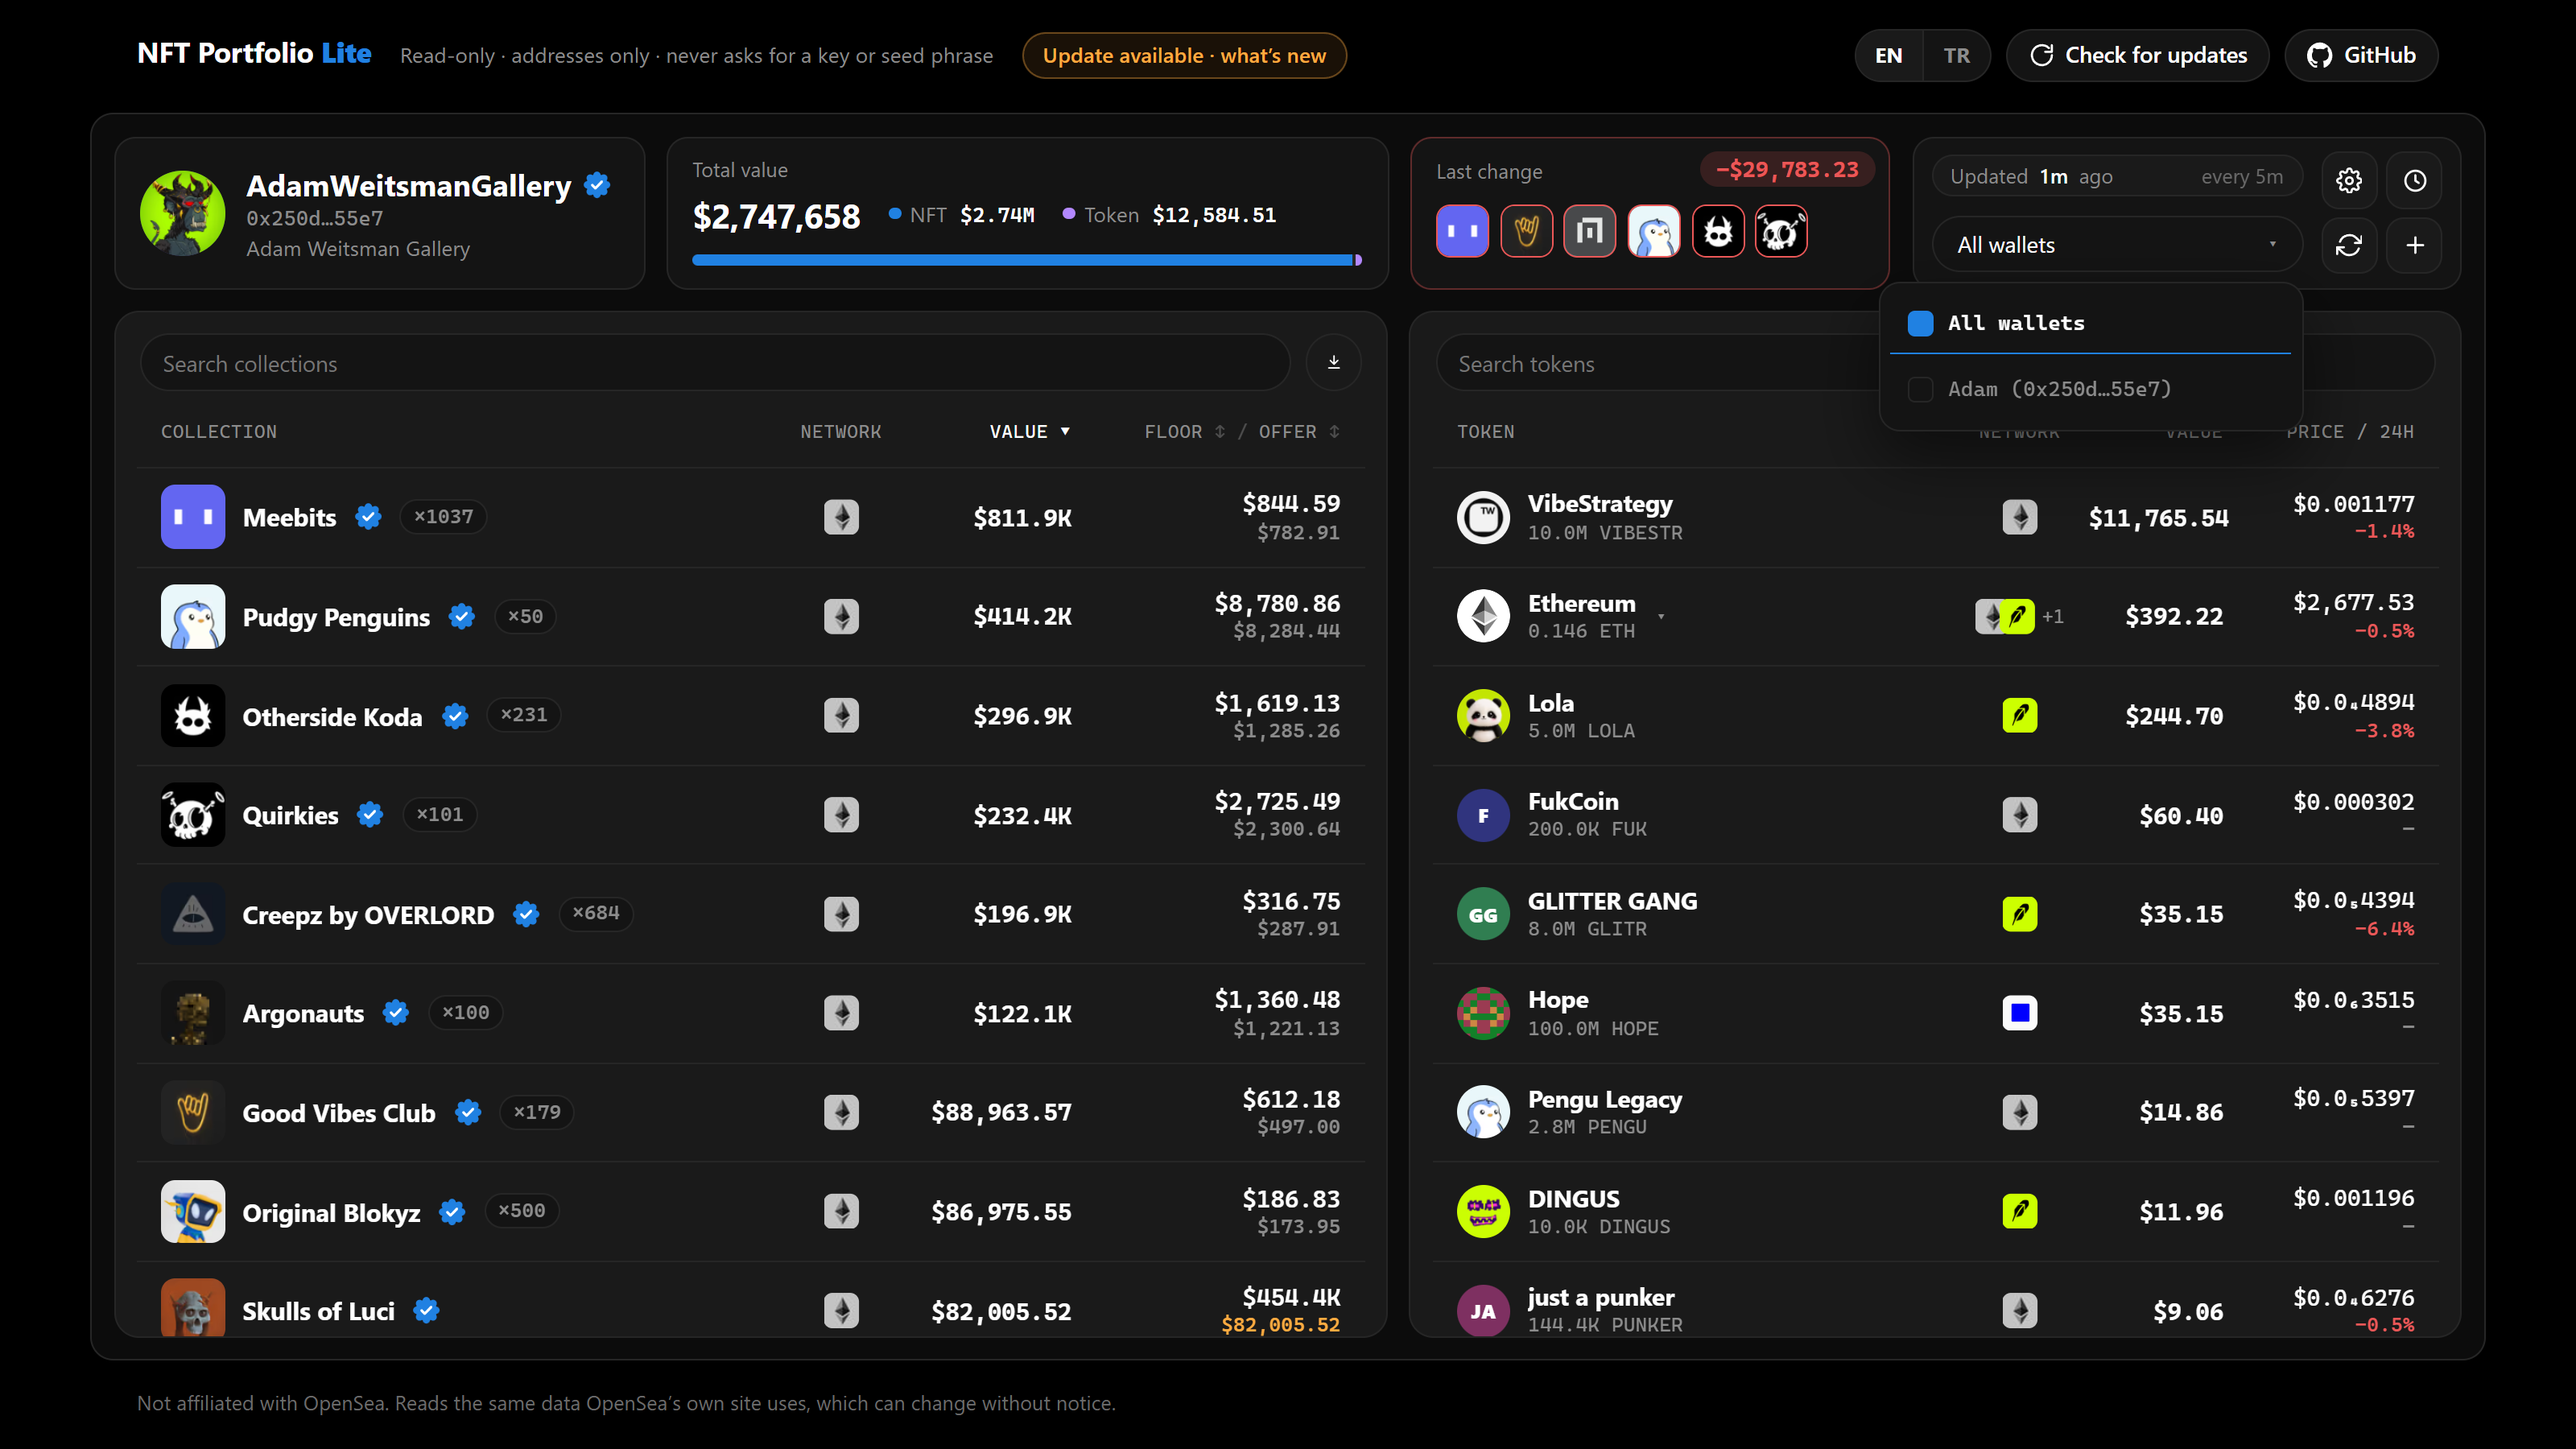
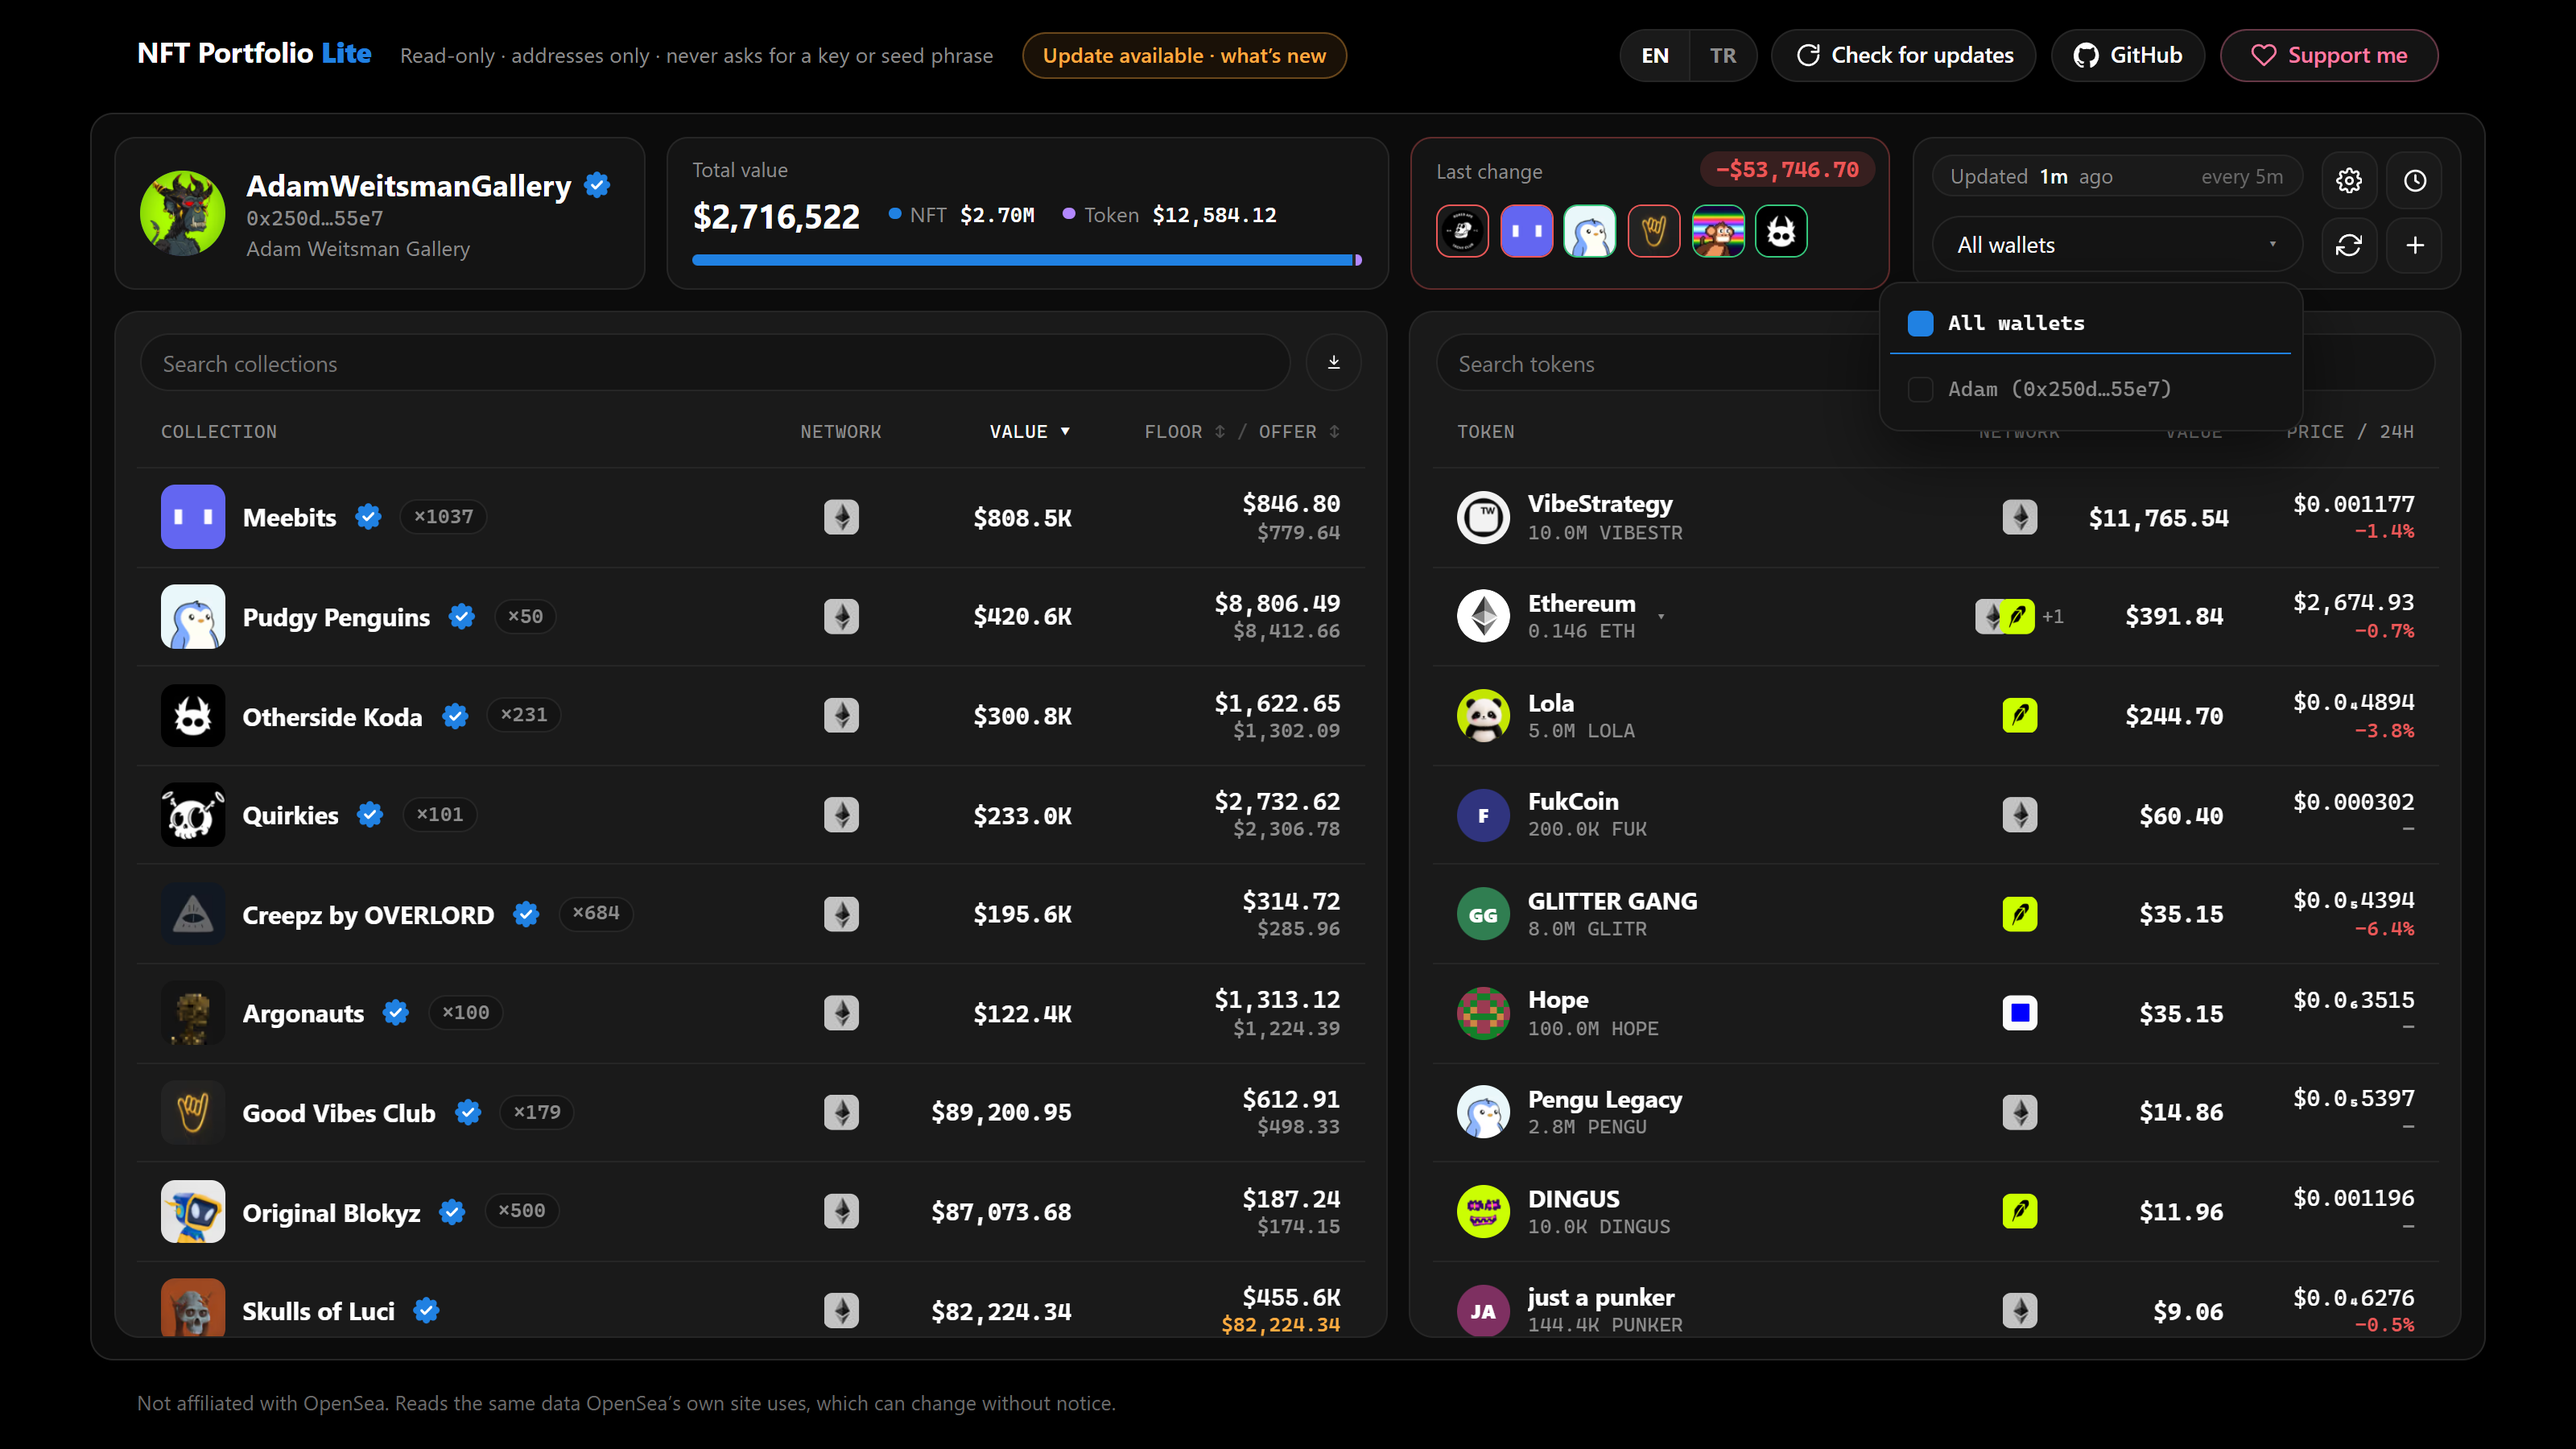
Support me at the top right: copies the author's address; the support mint is dropped
TR: Sağ üstte Destek ol düğmesi: geliştiricinin adresini kopyalar; destek mint'i kaldırıldı. Ekran görüntüleri yenilendi.

diff --git a/public/app.js b/public/app.js
@@ -43,7 +43,9 @@ const STRINGS = {
     couldNotCheck: 'Could not check',
     updateAvailable: 'Update available',
     upToDate: 'Up to date',
-    support: 'Support',
+    support: 'Support me',
+    supportTip: 'Copies my address, {name}\n{address}',
+    supportCopied: 'Copied',
     totalValue: 'Total value',
     lastChange: 'Last change',
     noMoveYet: 'No change since the last read',
@@ -141,7 +143,9 @@ const STRINGS = {
     couldNotCheck: 'Kontrol edilemedi',
     updateAvailable: 'Güncelleme var',
     upToDate: 'Güncel',
-    support: 'Destek',
+    support: 'Destek ol',
+    supportTip: 'Adresimi kopyalar, {name}\n{address}',
+    supportCopied: 'Kopyalandı',
     totalValue: 'Toplam değer',
     lastChange: 'Son değişim',
     noMoveYet: 'Son okumadan beri değişim yok',
@@ -286,6 +290,7 @@ function setLanguage(next) {
   if (typeof syncPortfolioChips === 'function') syncPortfolioChips();
   if (appAsleep) showAppAsleep();
   if (typeof paintProfile === 'function') paintProfile();
+  if (typeof paintSupport === 'function') paintSupport();
 }
 
 document.querySelectorAll('.lang-switch button').forEach((button) => {
@@ -3173,11 +3178,37 @@ function paintProfile() {
  * The support mint. Empty until there is one; the header link appears as
  * soon as this is set.
  */
-const SUPPORT_URL = '';
-if (SUPPORT_URL) {
-  $('#support-link').href = SUPPORT_URL;
-  $('#support-link').hidden = false;
+/*
+ * Support: the button copies the author's address -- the address itself,
+ * which every wallet takes, with the name it goes by shown on hover. Nothing
+ * is sent anywhere; what to send, if anything, is the reader's to decide.
+ */
+const SUPPORT_NAME = 'ekremkoz.eth';
+const SUPPORT_ADDRESS = '0x25e0a64D77C66148784341Bb98ad7927c02C7926';
+
+function paintSupport() {
+  const button = $('#support-link');
+  button.title = t('supportTip', { name: SUPPORT_NAME, address: SUPPORT_ADDRESS });
 }
+paintSupport();
+
+$('#support-link').addEventListener('click', async () => {
+  const button = $('#support-link');
+  const label = button.querySelector('span');
+  try {
+    await navigator.clipboard.writeText(SUPPORT_ADDRESS);
+  } catch {
+    // No clipboard (an insecure address, say): the address is in the tip.
+    return;
+  }
+  label.textContent = t('supportCopied');
+  button.classList.add('is-done');
+  clearTimeout(button.doneTimer);
+  button.doneTimer = setTimeout(() => {
+    label.textContent = t('support');
+    button.classList.remove('is-done');
+  }, 1800);
+});
 
 $('#portfolio-settings').addEventListener('click', () => openSettings(false));
 

diff --git a/public/index.html b/public/index.html
@@ -13,8 +13,8 @@
     <span class="lite-note" data-i18n="brandNote">Read-only · addresses only · never asks for a key or seed phrase</span>
     <!-- Shown when a newer version is on GitHub; a restart picks it up. -->
     <button id="update-note" class="update-note" type="button" hidden></button>
-    <!-- The source, and the support mint. The support link stays hidden
-         until SUPPORT_URL in app.js is set. -->
+    <!-- The source, and a way to support it: the button copies the
+         author's address (SUPPORT_ADDRESS in app.js). -->
     <nav class="lite-links">
       <span class="lang-switch" role="group" aria-label="Language">
         <button type="button" data-lang="en">EN</button><button type="button" data-lang="tr">TR</button>
@@ -27,10 +27,10 @@
         <svg viewBox="0 0 24 24" aria-hidden="true"><path fill="currentColor" d="M12 .5a12 12 0 0 0-3.8 23.4c.6.1.8-.3.8-.6v-2.1c-3.3.7-4-1.4-4-1.4-.6-1.4-1.4-1.8-1.4-1.8-1.1-.7.1-.7.1-.7 1.2.1 1.8 1.2 1.8 1.2 1.1 1.8 2.8 1.3 3.5 1 .1-.8.4-1.3.8-1.6-2.7-.3-5.5-1.3-5.5-6 0-1.3.5-2.4 1.2-3.2-.1-.3-.5-1.5.1-3.2 0 0 1-.3 3.3 1.2a11.5 11.5 0 0 1 6 0C17.3 4.6 18.3 5 18.3 5c.7 1.7.2 2.9.1 3.2.8.8 1.2 1.9 1.2 3.2 0 4.6-2.8 5.6-5.5 5.9.4.4.8 1.1.8 2.2v3.3c0 .3.2.7.8.6A12 12 0 0 0 12 .5z"/></svg>
         GitHub
       </a>
-      <a class="lite-link is-support" id="support-link" href="#" target="_blank" rel="noopener noreferrer" hidden>
+      <button class="lite-link is-support" id="support-link" type="button">
         <svg viewBox="0 0 24 24" fill="none" stroke="currentColor" stroke-width="2" stroke-linecap="round" stroke-linejoin="round" aria-hidden="true"><path d="M20.8 4.6a5.5 5.5 0 0 0-7.8 0L12 5.7l-1-1.1a5.5 5.5 0 0 0-7.8 7.8l1 1.1L12 21l7.8-7.5 1-1.1a5.5 5.5 0 0 0 0-7.8z"/></svg>
-        <span data-i18n="support">Support</span>
-      </a>
+        <span data-i18n="support">Support me</span>
+      </button>
     </nav>
   </header>
   <main class="main">

diff --git a/public/style.css b/public/style.css
@@ -640,6 +640,9 @@ select:-webkit-autofill {
 .lite-link.is-support { color: #ff7aa2; border-color: rgba(255, 122, 162, .35); }
 .lite-link.is-support:hover { border-color: #ff7aa2; background: rgba(255, 122, 162, .1); color: #ff7aa2; }
 .lite-link[hidden] { display: none; }
+/* Wide enough for either label, so Copied does not shift the buttons beside it. */
+.lite-link.is-support { justify-content: center; min-width: 124px; }
+.lite-link.is-support.is-done { background: rgba(255, 122, 162, .14); border-color: #ff7aa2; }
 .pf-error-line { display: block; margin: -4px 0 10px; color: var(--amber); font-size: 12.5px; }
 .pf-error-line:empty { display: none; }
 /* Asleep is not an error: said quietly, with the way back. */

diff --git a/README.md b/README.md
@@ -92,7 +92,7 @@ Everything the app keeps — your wallet list, NFTs added by hand, a week of pri
 
 ## Support
 
-If this saves you time, there is a support mint — *link coming soon*. It is a thank-you, not an investment: it grants nothing and promises nothing.
+If this saves you time, **Support me** at the top right copies my address: **ekremkoz.eth** (`0x25e0a64D77C66148784341Bb98ad7927c02C7926`). Anything is a thank-you; nothing is expected.
 
 ## License
 
@@ -171,5 +171,9 @@ Uygulamanın sakladığı her şey (cüzdan listen, elle eklenen NFT'ler, bir ha
 ### Önemli
 
 **OpenSea ile bağlantısı yoktur.** OpenSea'nin kendi sitesinin okuduğu verileri okur. Bunlar yayımlanmış bir API değildir: OpenSea onları her an değiştirebilir, değiştirdiğinde uygulama güncellenene kadar tablolar boş görünebilir. Değerler OpenSea'nin rakamlarıdır (en yüksek teklifler ve floor'lar), yatırım tavsiyesi değildir.
+
+### Destek
+
+İşine yaradıysa sağ üstteki **Destek ol** adresimi kopyalar: **ekremkoz.eth** (`0x25e0a64D77C66148784341Bb98ad7927c02C7926`). Ne gönderirsen teşekkürdür; hiçbir şey beklenmez.
 
 Bu uygulama **asla** private key ya da seed phrase istemez. İsteyen bir şey görürsen o bu uygulama değildir.
